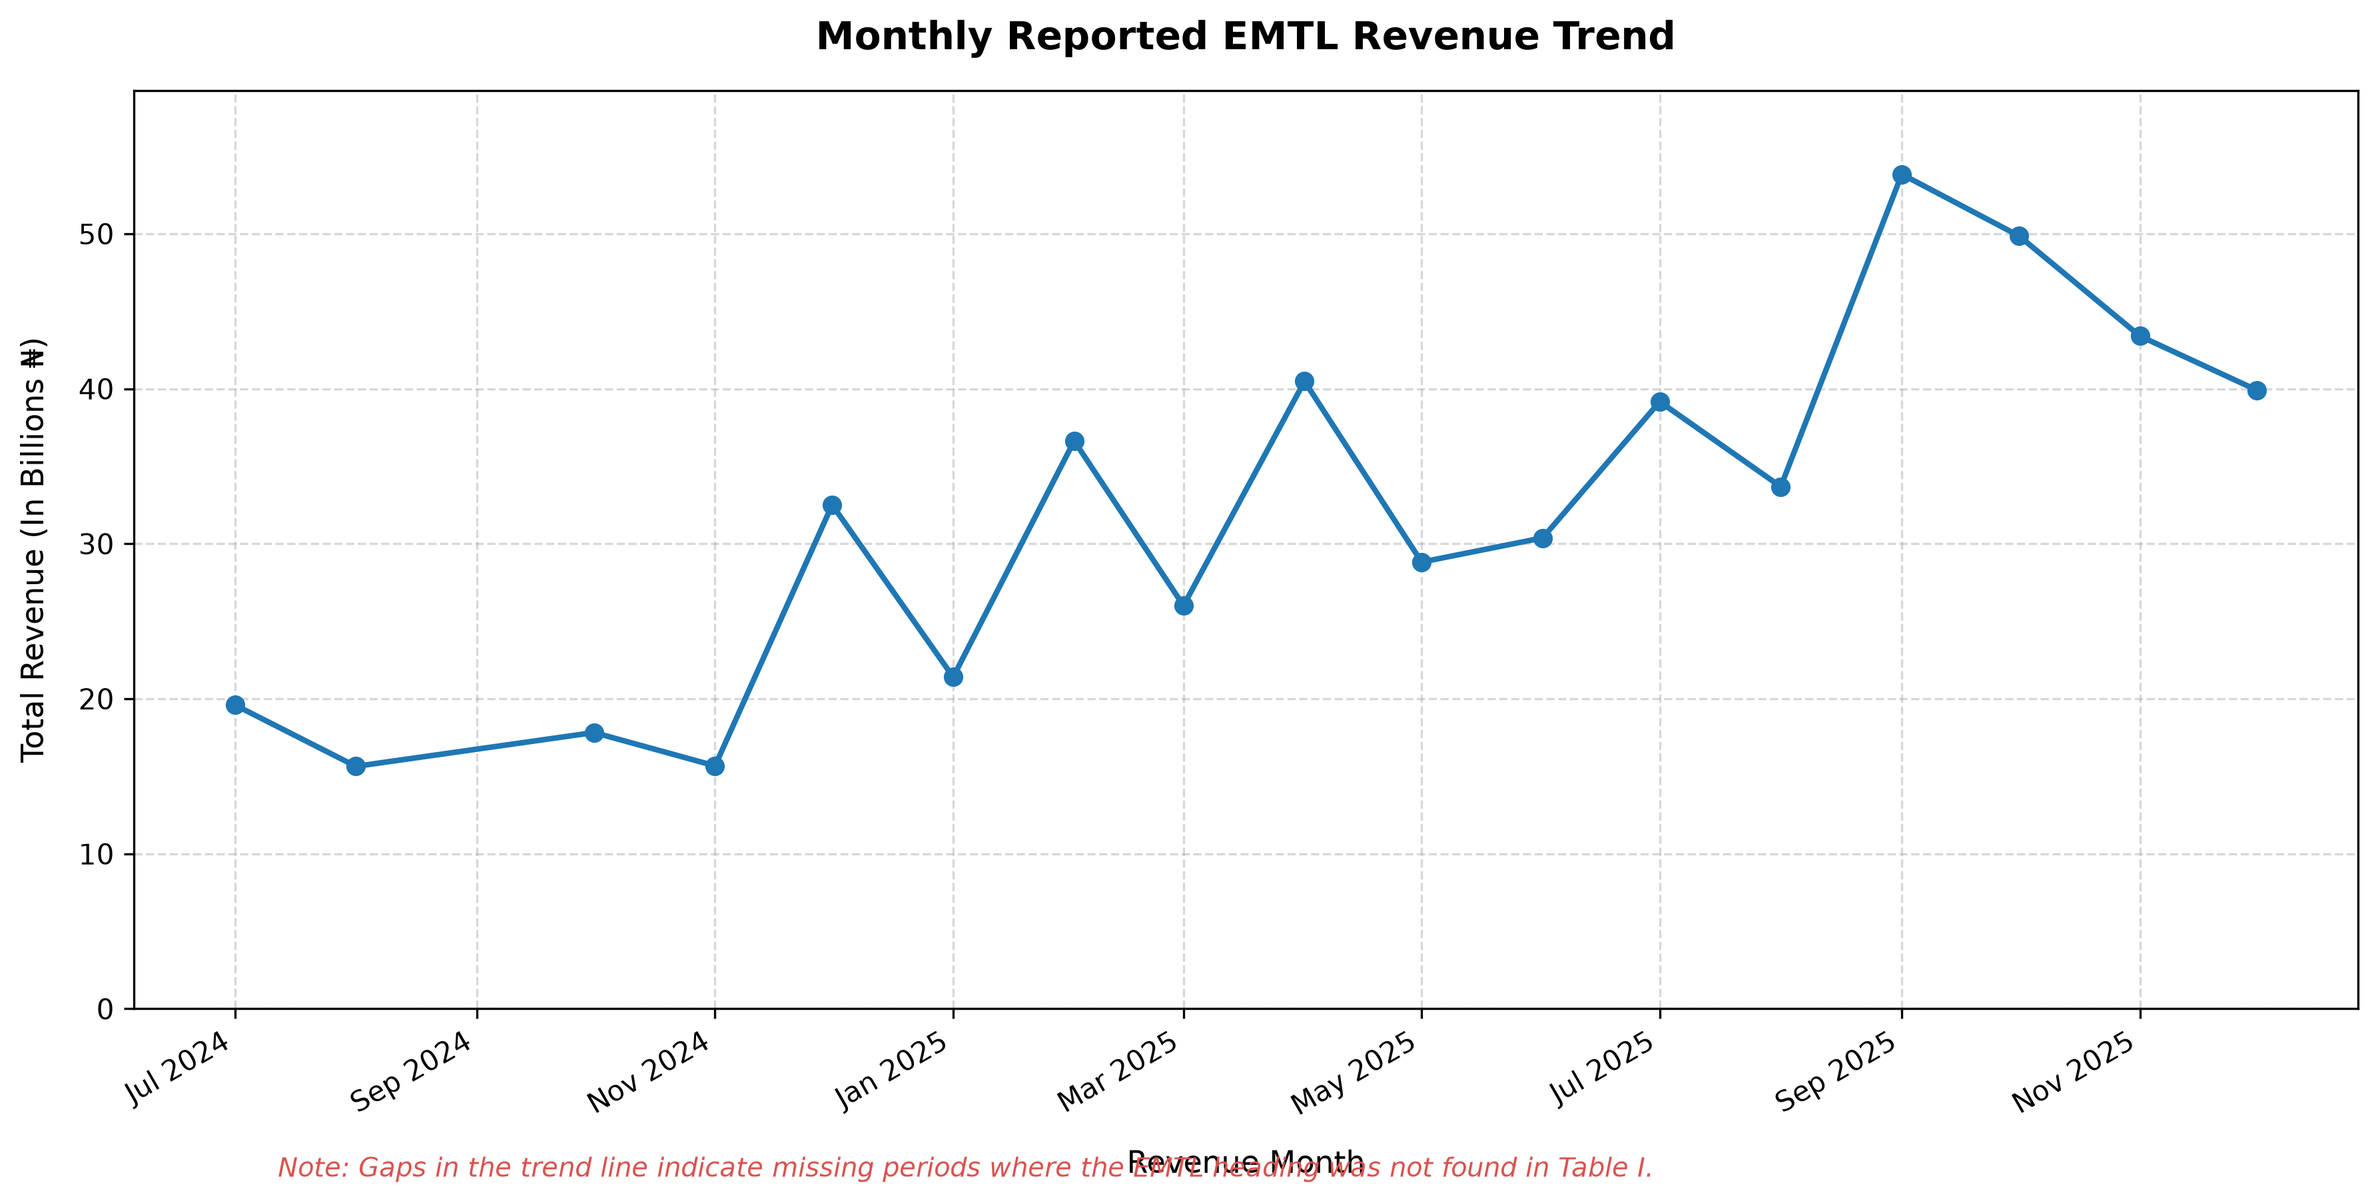
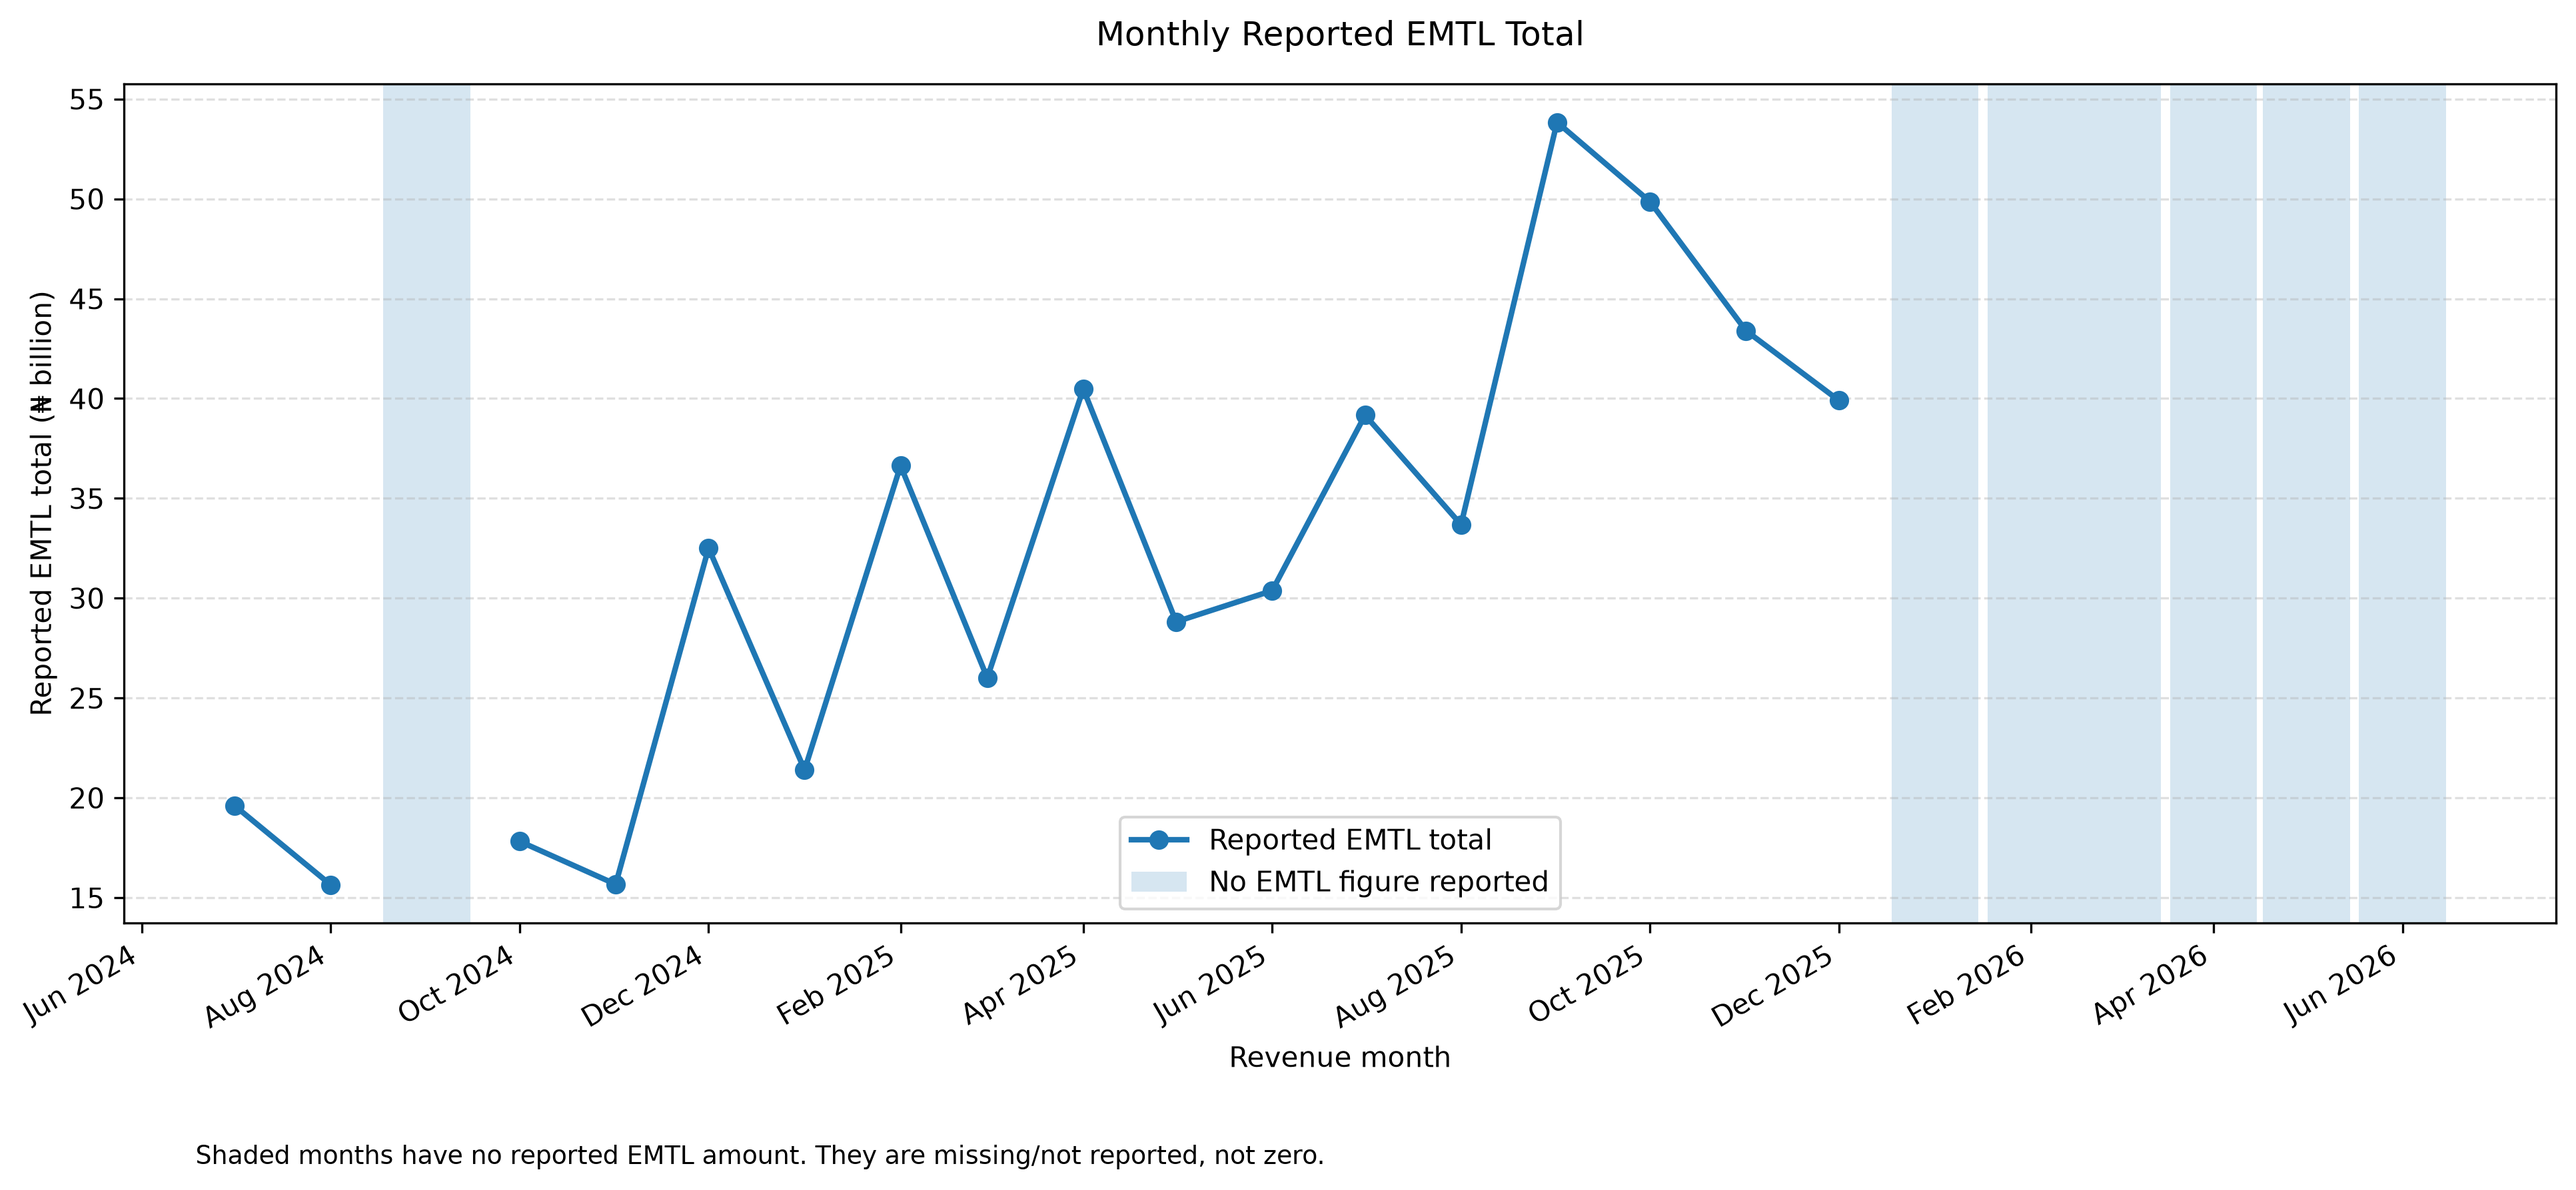
added to the script to perfect the monthly trend chart

diff --git a/src/analysis/plot_monthly_emtl.py b/src/analysis/plot_monthly_emtl.py
@@ -1,55 +1,88 @@
+from pathlib import Path
 import pandas as pd
 import matplotlib.pyplot as plt
 import matplotlib.dates as mdates
-import os
-os.getcwd()
 
-pd.set_option('display.float_format', lambda x: '%.2f' % x)
+PROJECT_ROOT = Path(__file__).resolve().parents[2]
+DATA_DIR = PROJECT_ROOT / "data" / "processed"
+OUTPUT_DIR = PROJECT_ROOT / "reports" / "figures"
 
+csv_file = DATA_DIR / "monthly_emtl_trend.csv"
 
-df = pd.read_csv(r"C:\Users\HP\Documents\GitHub\Nigeria Transfer Levy Analysis\data\processed\montly_emtl_trend.csv")
+df = pd.read_csv(csv_file)
 
+required = ["revenue_month", "reported_emtl_total_ngn"]
+missing = [col for col in required if col not in df.columns]
+if missing:
+    raise ValueError(f"CSV is missing columns: {missing}")
 
-# 2. Convert to datetime and sort sequentially (Step 6 & 7)
-df["revenue_month"] = pd.to_datetime(df["revenue_month"])
-df = df.sort_values(by="revenue_month")
-
-# 3. Create the clean plot layout (Step 8 & 9)
-plt.figure(figsize=(12, 6))
-
-# Strictly uses 'reported_emtl_total_ngn' on Y-axis but scales by 1e9 inline for simplicity
-# Gaps are preserved naturally because pandas loads SQL NULLs as NaN values
-plt.plot(df['revenue_month'], df['reported_emtl_total_ngn'] / 1e9, marker='o', color='#1f77b4', linewidth=2)
-
-# 4. Format X-Axis Dates dynamically to 'Jan 2026' style
-ax = plt.gca()
-ax.xaxis.set_major_formatter(mdates.DateFormatter('%b %Y'))  # Abbreviated month + Year
-ax.xaxis.set_major_locator(mdates.MonthLocator(interval=2))  # Shows every 2nd month to prevent crowding
-
-# 5. Polish design aesthetics, labels, and axis margins (Step 10)
-plt.title('Monthly Reported EMTL Revenue Trend', fontsize=14, fontweight='bold', pad=15)
-plt.xlabel('Revenue Month', fontsize=11, labelpad=10)
-plt.ylabel('Total Revenue (In Billions ₦)', fontsize=11, labelpad=10)
-plt.grid(True, linestyle='--', alpha=0.5)
-plt.ylim(0, (df['reported_emtl_total_ngn'].max() / 1e9) * 1.1)
-
-# Clean, automated date layout tilting handling
-plt.gcf().autofmt_xdate()
-
-# 6. Required explicit analytical note (Step 10)
-plt.figtext(
-    0.12, 0.01, 
-    "Note: Gaps in the trend line indicate missing periods where the EMTL heading was not found in Table I.", 
-    horizontalalignment='left', fontsize=9.5, style='italic', color='#d9534f'
+df["revenue_month"] = pd.to_datetime(df["revenue_month"], errors="coerce")
+df["reported_emtl_total_ngn"] = pd.to_numeric(
+    df["reported_emtl_total_ngn"], errors="coerce"
 )
 
-# Adjust layout margins explicitly so the bottom figtext note fits nicely
-plt.tight_layout()
-plt.subplots_adjust(bottom=0.15) 
+if df["revenue_month"].isna().any():
+    raise ValueError("Some revenue_month values are not valid dates.")
 
-# 7. Save final file asset cleanly to target tree (Step 11)
-output_dir = r"C:\Users\HP\Documents\GitHub\Nigeria Transfer Levy Analysis\reports\figures"
-os.makedirs(output_dir, exist_ok=True)
+# Make every date the first day of its month.
+df["revenue_month"] = df["revenue_month"].dt.to_period("M").dt.to_timestamp()
 
-plt.savefig(os.path.join(output_dir, "monthly_emtl_trend.png"), bbox_inches='tight', dpi=300)
+# One row per revenue month is expected.
+if df["revenue_month"].duplicated().any():
+    raise ValueError("Duplicate revenue months found. Check the SQL export.")
+
+df = df.set_index("revenue_month").sort_index()
+
+# Add any missing months between the first and last dates.
+# Missing values stay NaN; they are NOT changed to zero.
+all_months = pd.date_range(df.index.min(), df.index.max(), freq="MS")
+df = df.reindex(all_months)
+df.index.name = "revenue_month"
+df["emtl_total_bn"] = df["reported_emtl_total_ngn"] / 1_000_000_000
+
+missing_months = df.index[df["reported_emtl_total_ngn"].isna()]
+
+fig, ax = plt.subplots(figsize=(13, 6))
+ax.plot(
+    df.index,
+    df["emtl_total_bn"],
+    marker="o",
+    linewidth=2,
+    label="Reported EMTL total"
+)
+
+# Shade months with no reported amount so the gaps are easy to see.
+for i, month in enumerate(missing_months):
+    ax.axvspan(
+        month - pd.Timedelta(days=14),
+        month + pd.Timedelta(days=14),
+        alpha=0.18,
+        label="No EMTL figure reported" if i == 0 else None
+    )
+
+ax.set_title("Monthly Reported EMTL Total", pad=14)
+ax.set_xlabel("Revenue month")
+ax.set_ylabel("Reported EMTL total (₦ billion)")
+ax.xaxis.set_major_locator(mdates.MonthLocator(interval=2))
+ax.xaxis.set_major_formatter(mdates.DateFormatter("%b %Y"))
+ax.grid(axis="y", linestyle="--", alpha=0.4)
+ax.legend()
+
+fig.text(
+    0.08, 0.02,
+    "Shaded months have no reported EMTL amount. They are missing/not "
+    "reported, not zero.",
+    ha="left", fontsize=9
+)
+fig.autofmt_xdate()
+fig.tight_layout(rect=[0, 0.07, 1, 1])
+
+OUTPUT_DIR.mkdir(parents=True, exist_ok=True)
+output_file = OUTPUT_DIR / "monthly_emtl_trend.png"
+fig.savefig(output_file, dpi=300, bbox_inches="tight")
+
+print(f"Chart saved to: {output_file}")
+print(f"Months shown: {len(df)}")
+print(f"Months with reported amounts: {df['reported_emtl_total_ngn'].notna().sum()}")
+print(f"Months without reported amounts: {len(missing_months)}")
 plt.show()
